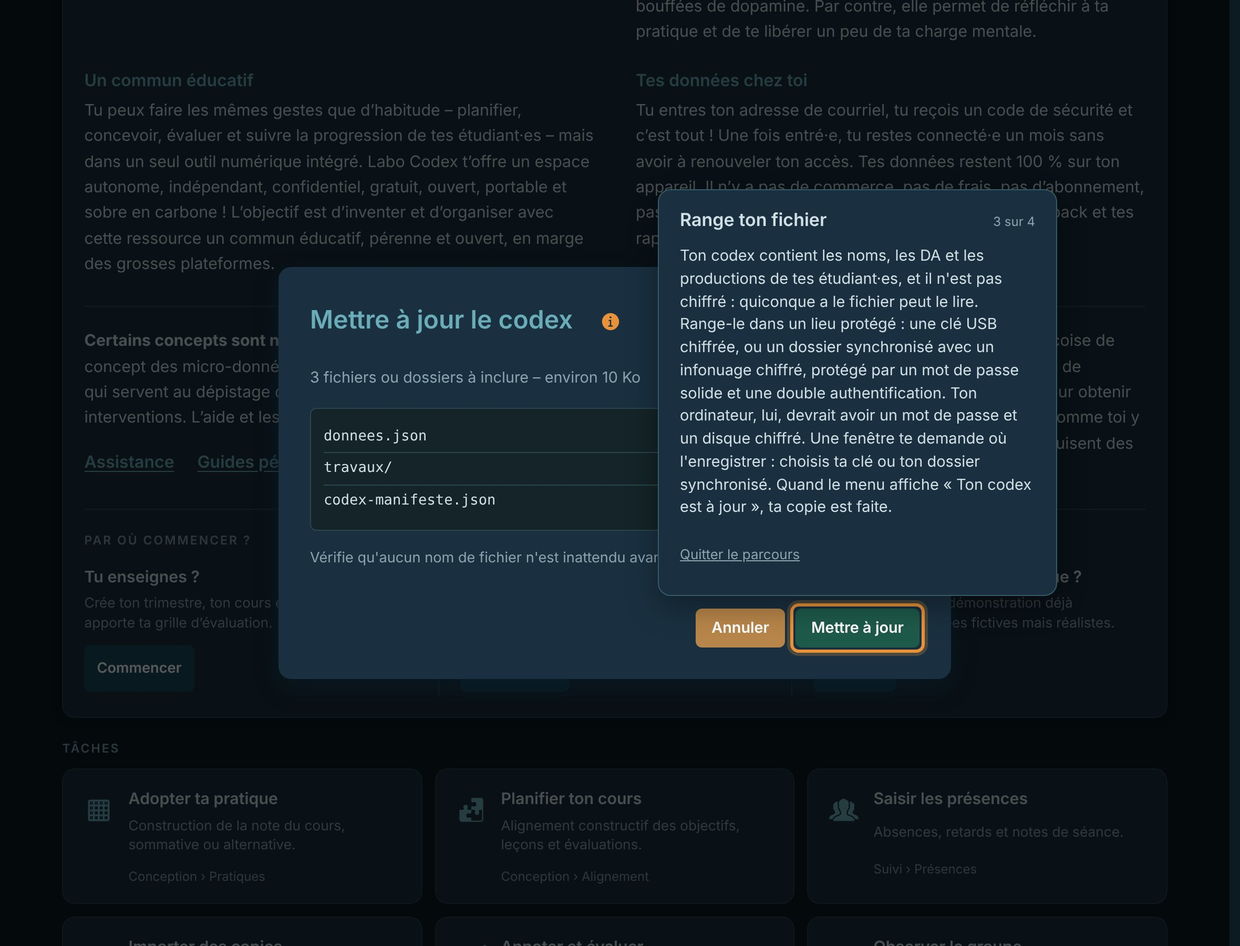
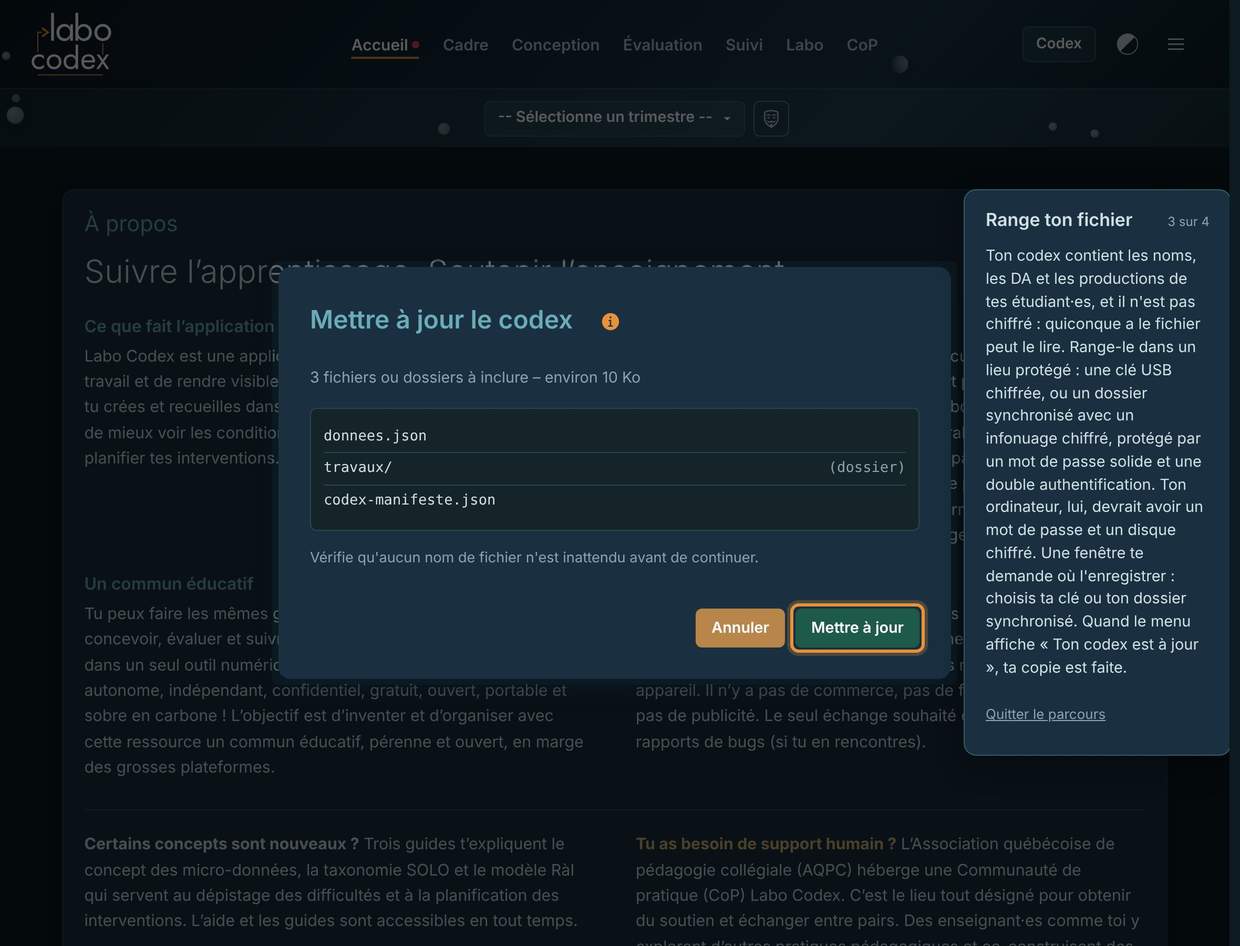
fix(parcours) : corrections du sixième parcours (décisions du 9 nov.) — l'aide du « i » au-dessus de l'aperçu ; « Partage un nouveau fichier » quand l'écriture passe par le partage ; à partir de 1180 px, la bulle 3 à droite de l'aperçu
- Question 1 : l'aide contextuelle (voile, fenêtre, micro-popup des termes) monte au-dessus
  de la couche qui porte son « i » (accompagnement.js, placerLEtageDeLAide ; classe du body).
  Ouverte ailleurs, elle reste à 10002.
- Question 5 (mots validés par Grégoire) : sous « Mettre à jour le codex », « Partage un
  nouveau fichier » quand le navigateur partage, « Télécharge un nouveau fichier » sinon.
- Question 8 (Cowork) : à partir de 1180 px, l'étape 3 donne l'aperçu pour zone et la largeur
  libre à sa droite ; le moteur y pose la bulle. Sous 1180 px, la place d'avant. Moteur intouché.
- Banc : 13 essais sous Chromium, break-tests rouges puis verts. Captures de l'étape 3 à 1180
  et 1440 px remplacées ; celles déjà approuvées (étapes 1, 2, 4, panneau, 390 px) intactes.

Claude-Session: https://claude.ai/code/session_01ByBG6KsA2YVdnDJEFMutQw

diff --git a/index.html b/index.html
@@ -11724,7 +11724,7 @@
     <script src="js/partage-section.js?v=20261025c"></script> <!-- #1156 (25 oct.) : genererSectionHTML retirée, rangeesDeuxColonnes seule · #1154 (25 oct.) : rangeesDeuxColonnes, « Partagés par des collègues » en données · #1075, point 9 (22 oct.) : l’échelle partagée d’une pratique -->
     <script src="js/import-export.js?v=20261031a"></script> <!-- #1152, lot 5 (29 oct.) : « étudiant·e » dans les écrans d’enseignant · #1135 (21 oct.) : étape 0, un critère algorithmique neuf ne reçoit plus les codes du français · #1120, lot 1 (20 oct.) : le barème d’un critère à l’import (numberOrNull) · « Apporter mon matériel » lot 1 (16 oct.) : descripteurs au schéma d'import, rebranchés au partage · #1028 (5 oct., verdict) : copie sans fichier, fusion, notifications · #1028 (5 oct.) : les copies aux archives · #1012 (2 oct.) : les copies d'un ancien fichier ouvert par la case s'ajoutent à celles de l'espace · Lot I bis (1er oct.) : un codex choisi dans la case « Ouvrir un Codex » part au codex, avant la limite de taille et sans lecture complète · Lot I bis (30 sept.) : la fenêtre des clés et son export retirés ; un ancien fichier s'ouvre toujours · Fusion #374 : journeesSansCours + noms hérités en lecture (5 août) · schéma d'échelle complété (audit du 28 août) -->
     <script src="js/codex-fusion-fenetre.js?v=20261030b"></script> <!-- #1186 (29 oct.) : la fenêtre de fusion en deux colonnes ; rien de choisi d'office -->
-    <script src="js/codex.js?v=20261108h"></script> <!-- Parcours 6 (9 nov.) : le haut du menu sans codex mène à « Mettre à jour le codex » ; le chemin de la prochaine écriture · Consigne du 31 oct., partie D : la palette Tampons, tuiles soudées et catégories qui se replient · Consigne du 31 oct., partie C : la palette d’annotation refaite, à 188 px · #1186 (29 oct.) : la fenêtre de fusion en deux colonnes, la lecture unique de l'appareil · #1184 (29 oct.) : la marque des archives s'installe à l'ouverture, une copie marquée ne part plus · #1182 retouche (29 oct.) : la fusion compare comme le codex écrit (undefined, Date) · #1182 (29 oct.) : la fusion copie par copie, sans ancêtre · 24 oct. : l’aperçu dit « Mettre à jour le codex », et « Écrire le codex à part » pour le codex à part · #1075, point 4 (22 oct.) : le geste « copieRemplacee » · #976 : la fenêtre du codex dit « corriger » pour un déplacement · #1028 (5 oct.) : les copies aux archives · Lot I bis (1er oct.) : ouvrirFichier (un fichier déjà choisi, même chemin que le menu) et estUnFichierDeCodex (par le répertoire du ZIP) · Lot A1 (30 sept.) : l'assemblage, le téléchargement et sa confirmation vivent dans fichier-sortant.js · Lot J0 ter (#988) : le message d'attente avant la feuille de partage (30 sept.) · Lot J0 bis (#988) : toucher expiré avant le partage, la fenêtre « Ton codex est prêt » (30 sept.) · Lot J0 (#988) : le fichier du codex est assemblé sans faire passer les copies par la mémoire (30 sept.) · Lot F (D4) : le témoin du codex dit vrai ; l'enregistrement automatique retiré (Grégoire, 29 sept.) · #614 : la fusion valide les magic bytes -->
+    <script src="js/codex.js?v=20261108i"></script> <!-- Parcours 6, corrections (9 nov.) : « Partage un nouveau fichier » sous « Mettre à jour le codex » quand l’écriture passe par le partage · Parcours 6 (9 nov.) : le haut du menu sans codex mène à « Mettre à jour le codex » ; le chemin de la prochaine écriture · Consigne du 31 oct., partie D : la palette Tampons, tuiles soudées et catégories qui se replient · Consigne du 31 oct., partie C : la palette d’annotation refaite, à 188 px · #1186 (29 oct.) : la fenêtre de fusion en deux colonnes, la lecture unique de l'appareil · #1184 (29 oct.) : la marque des archives s'installe à l'ouverture, une copie marquée ne part plus · #1182 retouche (29 oct.) : la fusion compare comme le codex écrit (undefined, Date) · #1182 (29 oct.) : la fusion copie par copie, sans ancêtre · 24 oct. : l’aperçu dit « Mettre à jour le codex », et « Écrire le codex à part » pour le codex à part · #1075, point 4 (22 oct.) : le geste « copieRemplacee » · #976 : la fenêtre du codex dit « corriger » pour un déplacement · #1028 (5 oct.) : les copies aux archives · Lot I bis (1er oct.) : ouvrirFichier (un fichier déjà choisi, même chemin que le menu) et estUnFichierDeCodex (par le répertoire du ZIP) · Lot A1 (30 sept.) : l'assemblage, le téléchargement et sa confirmation vivent dans fichier-sortant.js · Lot J0 ter (#988) : le message d'attente avant la feuille de partage (30 sept.) · Lot J0 bis (#988) : toucher expiré avant le partage, la fenêtre « Ton codex est prêt » (30 sept.) · Lot J0 (#988) : le fichier du codex est assemblé sans faire passer les copies par la mémoire (30 sept.) · Lot F (D4) : le témoin du codex dit vrai ; l'enregistrement automatique retiré (Grégoire, 29 sept.) · #614 : la fusion valide les magic bytes -->
     <script src="js/liste-evaluations.js?v=20261101a"></script> <!-- Consigne du 31 oct., partie F : même en-tête aux trois palettes, ↔ et ↕ en texte sur l’iPad · #1152, lot 5 (29 oct.) : « étudiant·e » dans les écrans d’enseignant · E16 (28 oct.) : « Compte jusqu’à sa reprise » sur l’originale pendant la fenêtre · #1174 (27 oct.) : « Mettre à la corbeille (N) » dans la barre de sélection · #1075, point 1 (22 oct.) : le DA affiché en anonymisation, menu Étudiant·e des Propriétés · #934 (22 sept.) : « Réassigner la sélection » en masse — cases, barre, question groupée qui nomme fichiers et conflits ; #932 : Propriétés montre la copie -->
     <script src="js/journal.js?v=20261022a"></script>
     <script src="js/snapshots.js?v=20261108b"></script> <!-- E15 (28 oct.) : la remise pour C cherche la reprise dans la liste lue · #116 (2 juil.) : flux auto scopé au GC actif + dédoublonnage -->
@@ -11765,20 +11765,20 @@
     <!-- SYSTÈME D'ACCOMPAGNEMENT UNIFIÉ (Beta 99.20) —
          Un seul moteur pour hover, flèches didactiques, popups aide contextuelle,
          visite guidée et glossaire. API publique : window.accompagnement. -->
-    <link rel="stylesheet" href="css/accompagnement.css?v=20261108c"> <!-- La palette Évaluation compacte (1er nov.) · #1152, lot 3 (28 oct.) : le micro-popup d’un terme souligné passe au-dessus de l’aide contextuelle -->
-    <script src="js/accompagnement.js?v=20261108a"></script> <!-- La palette Évaluation compacte (1er nov.) · #1152, lot 5 (29 oct.) : le trait d’union n’est plus échappé (regex sous u) · #1152, lot 5 (29 oct.) : le soulignement du glossaire aux mots entiers · #1152, lot 3 (28 oct.) : « En savoir plus » ouvre Aide › Référence sur la fiche du terme · L’aide d’« Apporter mon matériel » (19 oct.) : l’étape « Conception » de la visite correspond aussi à l’onglet (#1092) · Relecture de Cowork du 17 oct. (C3) : une icône « i » qui désigne une clé du catalogue ouvre son aide · #305 (2 juil.) : popup Conseil — nom accessible + focus -->
+    <link rel="stylesheet" href="css/accompagnement.css?v=20261108d"> <!-- Parcours 6, corrections (9 nov.) : l’aide d’un « i » passe au-dessus de la fenêtre qui le porte (l’aperçu du codex) · La palette Évaluation compacte (1er nov.) · #1152, lot 3 (28 oct.) : le micro-popup d’un terme souligné passe au-dessus de l’aide contextuelle -->
+    <script src="js/accompagnement.js?v=20261108b"></script> <!-- Parcours 6, corrections (9 nov.) : l’aide d’un « i » passe au-dessus de la fenêtre qui le porte · La palette Évaluation compacte (1er nov.) · #1152, lot 5 (29 oct.) : le trait d’union n’est plus échappé (regex sous u) · #1152, lot 5 (29 oct.) : le soulignement du glossaire aux mots entiers · #1152, lot 3 (28 oct.) : « En savoir plus » ouvre Aide › Référence sur la fiche du terme · L’aide d’« Apporter mon matériel » (19 oct.) : l’étape « Conception » de la visite correspond aussi à l’onglet (#1092) · Relecture de Cowork du 17 oct. (C3) : une icône « i » qui désigne une clé du catalogue ouvre son aide · #305 (2 juil.) : popup Conseil — nom accessible + focus -->
     <!-- Catalogues de contenu (hover, popup, terme). DOIVENT charger après accompagnement.js :
          chaque fichier appelle window.accompagnement.ajouterEntrees() directement. -->
     <script src="js/accompagnement-contenu-hover.js?v=20261108a"></script> <!-- Les palettes, une même famille § 4 (2 nov.) : un seul verrou, « Verrouiller » / « Déverrouiller », le cadenas de l’en-tête retiré · Consigne du 31 oct., partie F : même en-tête aux trois palettes, ↔ et ↕ en texte sur l’iPad · Lot 2 des seuils (30 oct.) : le niveau RàI · #1152, retouche du lot 5 (29 oct.) : la reprise ciblée n’est plus offerte ; HEIC selon le navigateur · #1152, lot 5 (29 oct.) : « étudiant·e » dans les écrans d’enseignant · #1152, lot 5 (29 oct.) : les bulles du Labo et de l’Animation, « Exporter ma config », les niveaux RàI · #1156 (25 oct.) : les bulles « Tout importer » des échelles et des productions disent « dans ta bibliothèque » · #1151 (24 oct.) : la bulle du menu de l'élève dit ‹ et › · #1120, lot 2 (20 oct.) : les bulles du barème, C2 · L’aide d’« Apporter mon matériel » (19 oct.) : bulle du menu réécrite, onze bulles neuves · « Apporter mon matériel », étape 7 (17 oct.) : bulle validée par Grégoire · « Apporter mon matériel » lot 1 (16 oct.) : texte de l'info-bulle nav-conception-materiel · Lot 1 de la carte (8 oct.) : infobulle du zoom, menu « Vue » · Lot I bis (30 sept.) : infobulles de la carte Ouverture et partage · Clé orga-vue-calendrier retirée avec la vue (lot 2, 6 août) -->
     <script src="js/accompagnement-contenu-popup.js?v=20261108a"></script> <!-- Lot 2 des seuils (30 oct.) : le niveau RàI · Le guidage de la démo (29 oct.) : la fenêtre « Données démo » validée · #1152, retouche du lot 5 (29 oct.) : la reprise ciblée et la cartouche verrouillée parties · #1152, lot 5 (29 oct.) : « étudiant·e » dans les écrans d’enseignant · #1152, lot 5 (29 oct.) : les aides « i » d’Annoter et évaluer, des grilles, des interventions · #1158, retouche (25 oct.) : l’aide courte de la fenêtre des tampons, validée par Grégoire · #1157, retouche (25 oct.) : l’aide « Comment fonctionne la bibliothèque » validée par Grégoire · #1152, lot 1 (24 oct.) : noms d’exemple fictifs dans « Formats de noms reconnus » (D10) · 24 oct. : l’aide de la fenêtre d’aperçu, « Ce que contient le fichier » · #1120, lot 2 (20 oct.) : l’aide « i » du barème, les trois types (C1) · L’aide d’« Apporter mon matériel » (19 oct.) : l’aide « i » conception-materiel · Lot I bis (30 sept.) : aide de la fenêtre des clés retirée · Beta 99.42 b0512-0738 : #277 retrait entrée modal-reparation -->
     <script src="js/accompagnement-contenu-terme.js?v=20261107b"></script> <!-- Les palettes, une même famille § 4 (2 nov.) : un seul verrou, « Verrouiller » / « Déverrouiller », le cadenas de l’en-tête retiré · Lot 2 des seuils (30 oct.) : le niveau RàI · #1152, lot 5 (29 oct.) : le glossaire : Exploration des pratiques, cours, groupe-cours, production ; « étudiant·es » · #1152, lot 3, retouche (28 oct.) : « en haut de l’écran », SRPNF validé · #1152, lot 3 (28 oct.) : le seul glossaire, le statique y est versé, les chemins aux libellés de config.js · #1120, lot 2 (20 oct.) : « Barème » et « Tranche » au lexique, A3 et A4 · L’aide d’« Apporter mon matériel » (19 oct.) : six termes des étiquettes -->
     <!-- Lot « Les deux parcours » (8 nov. 2026) : le moteur des parcours, le panneau « Assistance », puis les parcours dans l'ordre du panneau -->
-    <link rel="stylesheet" href="css/parcours.css?v=20261108b">
+    <link rel="stylesheet" href="css/parcours.css?v=20261108c">
     <script src="js/parcours-moteur.js?v=20261108a"></script>
     <script src="js/assistance.js?v=20261108b"></script>
     <script src="js/parcours-decouvrir.js?v=20261108a"></script>
     <script src="js/parcours-classe.js?v=20261108a"></script>
-    <script src="js/parcours-donnees.js?v=20261108a"></script> <!-- Parcours 6 (9 nov.) : « Mettre tes données à l’abri » -->
+    <script src="js/parcours-donnees.js?v=20261108b"></script> <!-- Parcours 6 (9 nov.) : « Mettre tes données à l’abri » ; corrections : à partir de 1180 px, la bulle 3 à droite de l’aperçu -->
     <script src="js/guides-pedagogiques.js?v=20261101a"></script> <!-- Consigne du 31 oct., partie F : même en-tête aux trois palettes, ↔ et ↕ en texte sur l’iPad · Lot 2 des seuils (30 oct.) : le niveau RàI · #1152, lot 5 (29 oct.) : le guide ACP cite « Suivi du groupe » ; « étudiant·e » · Le guide SOLO (27 oct.) : « PS ↔ Préstructurel », le non recevable sorti de la correspondance · Module unifié des guides pédagogiques : SOLO, ACP, RàI (plan du 23 mai, contenu validé 4 juin 2026) -->
     <script src="js/comparateur-pratiques.js?v=20261107b"></script> <!-- #1152, retouche du lot 5 (29 oct.) : « L’Exploration des pratiques » dans trois phrases · #1152, lot 5 (29 oct.) : le titre « Exploration des pratiques » · #1075, point 1 (22 oct.) : le DA affiché en anonymisation, libellé et CSV · Comparateur de pratiques (lot C1-a : squelette + garde démo, 6 juin 2026) -->
     <script src="js/export-resultats-finaux.js?v=20261029a"></script> <!-- #333 Lot 2 : export CSV des résultats finaux (module dédié, consomme simulerIndices) -->

diff --git a/js/parcours-donnees.js b/js/parcours-donnees.js
@@ -140,6 +140,33 @@
         elementsDuMoteur().forEach(function (el) { el.classList.toggle('parcours--par-dessus-les-fenetres', !!oui); });
     }
 
+    // Étape 3, à partir de 1180 px (question 8, décidée par Cowork le 9 nov. 2026) : la bulle se
+    // pose, étroite, À DROITE de l'aperçu, et n'en couvre rien : ni la mise en garde « Vérifie
+    // qu'aucun nom de fichier n'est inattendu… », ni la liste des fichiers, ni ses deux boutons.
+    // Au-dessus de « Mettre à jour », elle couvrait la mise en garde. Sous 1180 px, la place
+    // d'avant. Ni le moteur ni sa bulle ne changent : l'étape donne l'aperçu pour zone, et la
+    // largeur qui tient à sa droite ; le moteur y pose la bulle (son côté « droite »).
+    var A_DROITE_DES = 1180;
+    var LARGEUR_MIN_A_DROITE = 220;
+    var LARGEUR_BULLE = 380;      // css/parcours.css, .parcours-bulle
+    var ESPACE_DU_MOTEUR = 20;    // parcours-moteur.js : ECART (12) entre la zone et la bulle, MARGE (8) au bord
+
+    /** La largeur de la bulle à droite de l'aperçu ; 0 quand la place n'y est pas. */
+    function largeurADroiteDeLApercu(a) {
+        if (window.innerWidth < A_DROITE_DES) return 0;
+        // clientWidth : sans la barre de défilement, que la bulle ne doit pas chevaucher.
+        var libre = Math.floor(document.documentElement.clientWidth - a.getBoundingClientRect().right - ESPACE_DU_MOTEUR);
+        return libre >= LARGEUR_MIN_A_DROITE ? Math.min(LARGEUR_BULLE, libre) : 0;
+    }
+
+    /** Pose (largeur > 0) ou retire la bulle étroite à droite de l'aperçu. */
+    function bulleADroite(largeur) {
+        var b = document.getElementById('parcours-bulle');
+        if (!b) return;
+        b.classList.toggle('parcours--a-droite-de-l-apercu', largeur > 0);
+        b.style.width = largeur > 0 ? largeur + 'px' : '';
+    }
+
     /** « Ouvrir un codex… » ne répond pas pendant ce parcours : il remplacerait l'espace de travail. */
     function garderOuvrir(ev) {
         if (!cestNotreParcours()) return;
@@ -161,6 +188,7 @@
             texte: TEXTE_1,
             avant: async function () {
                 auDessusDesFenetres(false);
+                bulleADroite(0);
                 // Le geste à faire est d'ouvrir le menu : il part fermé.
                 fermerMenu();
             },
@@ -172,6 +200,7 @@
             texte: TEXTE_2,
             avant: async function () {
                 auDessusDesFenetres(false);
+                bulleADroite(0);
                 ouvrirMenu();
             },
             zones: function () { return [hautDuMenu()]; },
@@ -198,10 +227,16 @@
                 // La bulle passe au-dessus de l'aperçu et de la progression ; elle cède la place
                 // aux fenêtres qui suivent (« Ton codex est prêt », « Il y est », l'échec), dont
                 // les boutons doivent rester touchables : à 390 px, elle couvrait « Il y est ».
-                auDessusDesFenetres(!fenetreDeDialogue());
-                // L'aperçu n'est pas une zone : la bulle ne tient à côté de lui à aucune largeur
-                // et s'y poserait au hasard. Elle évite son bouton (le contour), et la progression.
-                var p = apercu() ? null : progression();
+                var dialogue = fenetreDeDialogue();
+                auDessusDesFenetres(!dialogue);
+                // À partir de 1180 px, l'aperçu est la zone : la bulle, étroite, se pose à sa droite.
+                var a = apercu();
+                var largeur = a && !dialogue ? largeurADroiteDeLApercu(a) : 0;
+                bulleADroite(largeur);
+                if (largeur) return [a];
+                // Plus étroit, l'aperçu n'est pas une zone : la bulle ne tient pas à côté de lui et
+                // s'y poserait au hasard. Elle évite son bouton (le contour), et la progression.
+                var p = a ? null : progression();
                 return p ? [p] : [];
             },
             contour: function () {
@@ -224,6 +259,7 @@
             sansSortie: true,
             avant: async function () {
                 auDessusDesFenetres(false);
+                bulleADroite(0);
                 // La mise à jour a refermé le menu (_mettreAJourLeCodex) : on le rouvre.
                 ouvrirMenu();
             },

diff --git a/js/accompagnement.js b/js/accompagnement.js
@@ -871,7 +871,36 @@ function rendreContenuAide(aide) {
     return sectionsHTML + voirAussiHTML;
 }
 
-function afficherAideContextuelle(cleAide) {
+/**
+ * Parcours 6 (9 nov. 2026) : le niveau d'empilement de ce qui porte un « i » — le plus haut
+ * z-index de ses ancêtres positionnés. L'aperçu « Mettre à jour le codex » est à 99999
+ * (securite-export-preview.js) : son « i » ouvrait l'aide DESSOUS, cachée tant qu'il restait ouvert.
+ */
+function niveauDEmpilement(el) {
+    let niveau = 0;
+    for (let n = el; n && n.nodeType === 1 && n !== document.body; n = n.parentElement) {
+        const s = getComputedStyle(n);
+        const z = parseInt(s.zIndex, 10);
+        if (!isNaN(z) && s.position !== 'static') niveau = Math.max(niveau, z);
+    }
+    return niveau;
+}
+
+/**
+ * L'aide passe au-dessus de ce qui porte son « i ». L'étage entier monte (voile, aide, et le
+ * micro-popup de ses termes, #1152) par une classe du body : css/accompagnement.css, fin du
+ * fichier. Un lien « Voir aussi » vit dans l'aide elle-même : l'étage reste où il est. Sans
+ * déclencheur connu (ouverture par clé, data-action), l'aide reste à sa place habituelle.
+ */
+function placerLEtageDeLAide(modal, declencheur) {
+    if (declencheur && declencheur.closest && declencheur.closest('.aide-contextuelle-modal')) return;
+    document.body.classList.remove('aide-par-dessus-les-fenetres');
+    if (!declencheur) return;
+    const base = parseInt(getComputedStyle(modal).zIndex, 10) || 0;
+    if (niveauDEmpilement(declencheur) >= base) document.body.classList.add('aide-par-dessus-les-fenetres');
+}
+
+function afficherAideContextuelle(cleAide, declencheur) {
     const aide = obtenirPopup(cleAide);
     if (!aide) {
         console.warn(`[Accompagnement/popup] Aide non trouvée : ${cleAide}`);
@@ -892,6 +921,8 @@ function afficherAideContextuelle(cleAide) {
         modal.className = 'aide-contextuelle-modal primo-popup';
         document.body.appendChild(modal);
     }
+
+    placerLEtageDeLAide(modal, declencheur);
 
     modal.setAttribute('role', 'dialog');
     modal.setAttribute('aria-modal', 'true');
@@ -923,6 +954,7 @@ function fermerAideContextuelle() {
 
     if (overlay) overlay.classList.remove('active');
     if (modal) modal.classList.remove('active');
+    document.body.classList.remove('aide-par-dessus-les-fenetres');
     document.body.style.overflow = '';
 
     if (declencheur && typeof declencheur.focus === 'function') declencheur.focus();
@@ -1035,14 +1067,14 @@ function initialiserPopup() {
             event.preventDefault();
             event.stopPropagation();
             const cle = bouton.getAttribute('data-aide');
-            if (cle) afficherAideContextuelle(cle);
+            if (cle) afficherAideContextuelle(cle, bouton);
             return;
         }
         const lienVoirAussi = event.target.closest('.aide-lien-voir-aussi');
         if (lienVoirAussi) {
             event.preventDefault();
             const nouvelleCle = lienVoirAussi.getAttribute('data-aide');
-            if (nouvelleCle) afficherAideContextuelle(nouvelleCle);
+            if (nouvelleCle) afficherAideContextuelle(nouvelleCle, lienVoirAussi);
             return;
         }
     });

diff --git a/js/codex.js b/js/codex.js
@@ -1778,8 +1778,13 @@ async function sauvegarderVersDestination(blob, nomFichier, options) {
 function cheminDeLaProchaineEcriture(copiesManquent) {
     if (_fileHandle && !copiesManquent) return 'tenu';
     if (window.showSaveFilePicker) return 'fenetre';
-    if (_peutPartagerFichier(new Blob([], { type: 'application/zip' }), 'codex' + EXTENSION_CODEX)) return 'partage';
+    if (_partageraUnCodex()) return 'partage';
     return 'telechargement';
+}
+
+/** Sans fenêtre de choix : le navigateur offre-t-il le partage d'un codex (stratégie 2 ci-dessus) ? */
+function _partageraUnCodex() {
+    return _peutPartagerFichier(new Blob([], { type: 'application/zip' }), 'codex' + EXTENSION_CODEX);
 }
 
 /**
@@ -3283,7 +3288,8 @@ function _actualiserMenu() {
 
     // Libellé canonique « Mettre à jour le codex » partout (D4, Grégoire, 26 sept. 2026 :
     // « Enregistré » ne veut plus dire qu'écrit dans l'application ; le codex a son verbe).
-    // La mécanique Safari (téléchargement d'un nouveau fichier) reste dite par le sous-texte.
+    // Sans fenêtre de choix, la mécanique (partage ou téléchargement d'un nouveau fichier)
+    // reste dite par le sous-texte.
     var fsapiOk = (typeof window.showSaveFilePicker === 'function');
     var enregLabel = document.getElementById('codex-menu-enreg-label');
     if (enregLabel) {
@@ -3294,7 +3300,9 @@ function _actualiserMenu() {
     var enregInfo = document.getElementById('codex-menu-enreg-info');
     if (enregInfo) {
         if (!fsapiOk) {
-            enregInfo.textContent = 'Télécharge un nouveau fichier';
+            // Parcours 6 (mots validés par Grégoire le 9 nov. 2026, 9 h 33) : sur l'iPad, l'écriture
+            // passe par la feuille de partage ; la bulle 3 du parcours le dit, le menu aussi.
+            enregInfo.textContent = _partageraUnCodex() ? 'Partage un nouveau fichier' : 'Télécharge un nouveau fichier';
             enregInfo.classList.remove('u-hide');
         } else if (_fileHandle) {
             enregInfo.textContent = 'Dans le même fichier';

diff --git a/css/accompagnement.css b/css/accompagnement.css
@@ -1005,3 +1005,14 @@ body.aide-contextuelle-active .btn-aide-contextuelle,
     text-align: center;
     padding: 24px;
 }
+
+/* --- L'aide au-dessus de ce qui porte son « i » (parcours 6, 9 nov. 2026) ----------
+   L'aperçu « Mettre à jour le codex » est à 99999 (js/securite-export-preview.js) : son « i »
+   ouvrait l'aide (10002) DESSOUS, cachée tant que l'aperçu restait ouvert. Quand le « i » vit
+   dans une couche plus haute que l'aide, js/accompagnement.js (placerLEtageDeLAide) pose cette
+   classe sur le body, le temps que l'aide reste ouverte. L'étage entier monte ensemble : le
+   voile, l'aide, et le micro-popup de ses termes (#1152, au-dessus de l'aide). Au-dessus de la
+   progression (100000) et de la bulle du parcours posée sur l'aperçu (100002, css/parcours.css). */
+body.aide-par-dessus-les-fenetres .aide-contextuelle-overlay { z-index: 100010; }
+body.aide-par-dessus-les-fenetres .aide-contextuelle-modal { z-index: 100011; }
+body.aide-par-dessus-les-fenetres .glossaire-micropopup { z-index: 100012; }

diff --git a/css/parcours.css b/css/parcours.css
@@ -478,3 +478,8 @@ body.parcours-actif .transition-bandeau { display: none; }
     max-height: min(560px, 55vh);
     overflow-y: auto;
 }
+
+/* Parcours 6, étape 3, à partir de 1180 px (question 8, décidée par Cowork le 9 nov. 2026) : la
+   bulle se pose à DROITE de l'aperçu, à la largeur qui y tient (js/parcours-donnees.js, sa largeur
+   en ligne). Elle n'y couvre rien : elle reprend la hauteur de la bulle ordinaire, défile moins. */
+.parcours-bulle.parcours--a-droite-de-l-apercu { max-height: calc(100vh - 32px); }
